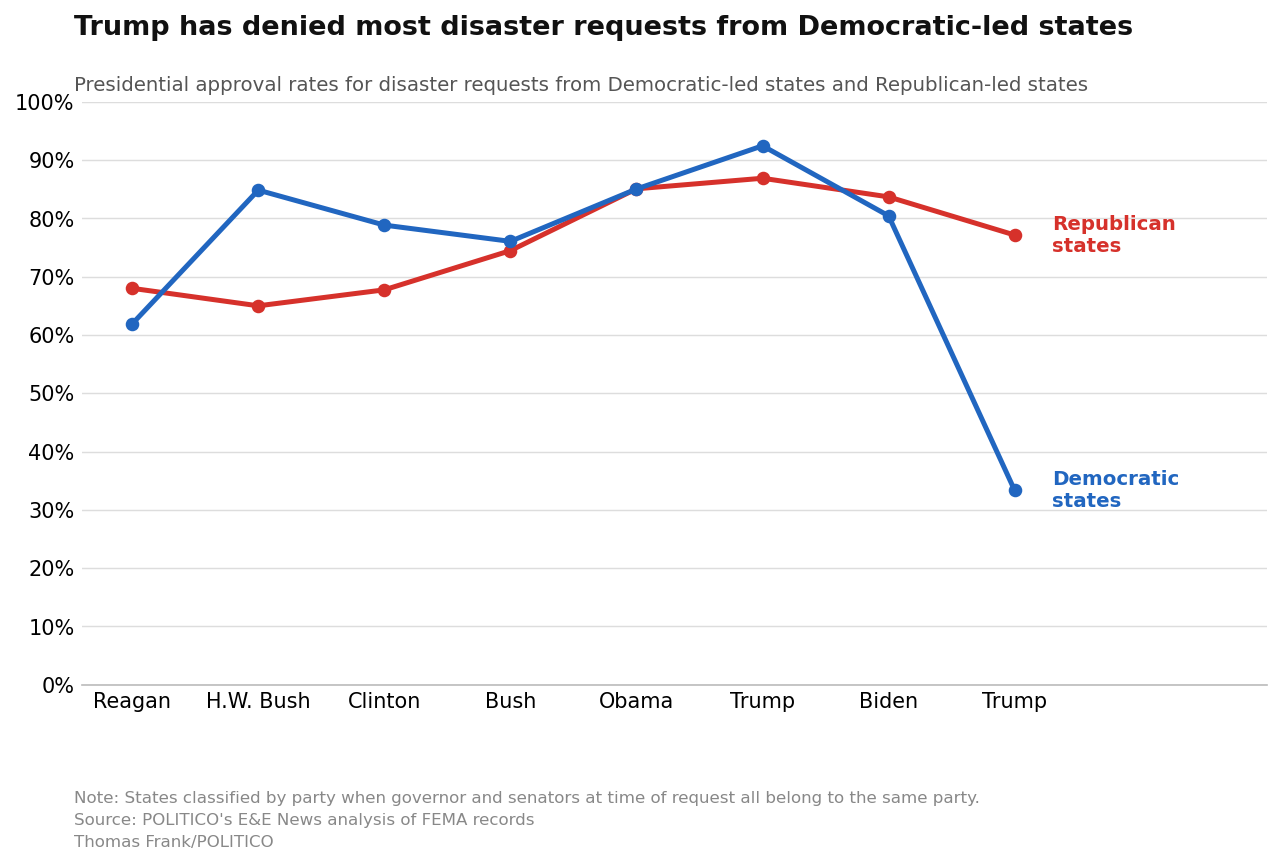
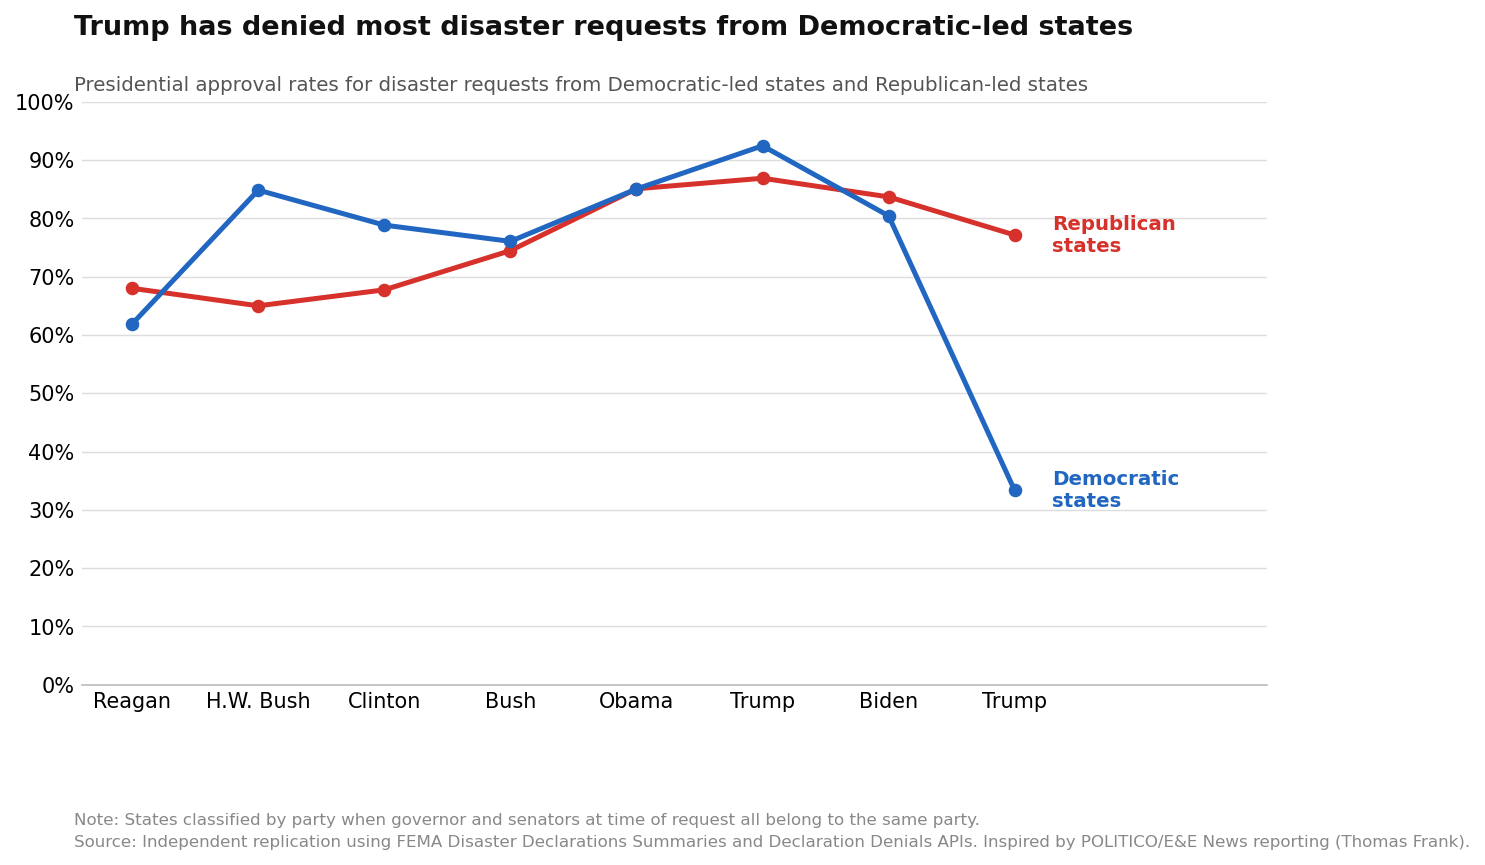
update

diff --git a/replicate_fema_analysis.py b/replicate_fema_analysis.py
@@ -796,7 +796,7 @@ def analyze(approved_records, denied_records):
 
     # Records with no matching presidential term
     np_total = no_pres_count["approved"] + no_pres_count["denied"]
-    print(f"\nOut-of-range dates (no matching presidential term): {np_total} records"
+    print(f"\nOut-of-range dates (pre-reagan): {np_total} records"
           f" ({no_pres_count['approved']} approved, {no_pres_count['denied']} denied)")
 
     return counts
@@ -901,8 +901,9 @@ def plot_chart(counts, output_path="fema_approval_rates.png"):
     footer = (
         "Note: States classified by party when governor and senators at time of "
         "request all belong to the same party.\n"
-        "Source: POLITICO's E&E News analysis of FEMA records\n"
-        "Thomas Frank/POLITICO"
+        "Source: Independent replication using FEMA Disaster Declarations Summaries "
+        "and Declaration Denials APIs. "
+        "Inspired by POLITICO/E&E News reporting (Thomas Frank)."
     )
     fig.text(0.065, 0.01, footer,
              fontsize=8, va="bottom", ha="left", color="#888888",

diff --git a/README.md b/README.md
@@ -1,102 +1,159 @@
 # FEMA DISASTER DECLARATION APPROVAL RATES BY PRESIDENT & STATE PARTY
 
-## Summary Table
+## Methodology
 
-| President   | Party | Approved | Denied | Total | Rate  |
-|------------|-------|----------|--------|-------|-------|
-| Reagan     | Dem   | 26       | 16     | 42    | 61.9% |
-| Reagan     | Rep   | 17       | 8      | 25    | 68.0% |
-| H.W. Bush  | Dem   | 28       | 5      | 33    | 84.8% |
-| H.W. Bush  | Rep   | 13       | 7      | 20    | 65.0% |
-| Clinton    | Dem   | 41       | 11     | 52    | 78.8% |
-| Clinton    | Rep   | 63       | 30     | 93    | 67.7% |
-| Bush       | Dem   | 54       | 17     | 71    | 76.1% |
-| Bush       | Rep   | 70       | 24     | 94    | 74.5% |
-| Obama      | Dem   | 108      | 19     | 127   | 85.0% |
-| Obama      | Rep   | 114      | 20     | 134   | 85.1% |
-| Trump      | Dem   | 49       | 4      | 53    | 92.5% |
-| Trump      | Rep   | 106      | 16     | 122   | 86.9% |
-| Biden      | Dem   | 74       | 18     | 92    | 80.4% |
-| Biden      | Rep   | 118      | 23     | 141   | 83.7% |
-| Trump      | Dem   | 4        | 8      | 12    | 33.3% |
-| Trump      | Rep   | 27       | 8      | 35    | 77.1% |
+This is an independent replication of the POLITICO/E&E News analysis published by Thomas Frank. The script fetches live data directly from FEMA's public APIs and applies the same core methodology described in the original reporting.
 
----
+### Data Sources
 
-## EXCLUDED RECORDS
+| Dataset | API Endpoint | Records Fetched |
+|---|---|---|
+| Approved declarations | `fema.gov/api/open/v2/DisasterDeclarationsSummaries` | ~46,220 |
+| Denied requests | `fema.gov/api/open/v1/DeclarationDenials` | ~1,288 |
 
-### Territories / States Not in Alignment Data  
-**Summary:** 122 approved, 16 denied, 138 total, 88.4% approval rate
+Both endpoints are paginated at 1,000 records per request; the script pages through all results exhaustively.
 
-| State | Approved | Denied | Total | Rate   |
-|-------|----------|--------|-------|--------|
-| AS    | 11       | 1      | 12    | 91.7%  |
-| DC    | 14       | 1      | 15    | 93.3%  |
-| FM    | 15       | 3      | 18    | 83.3%  |
-| GU    | 14       | 2      | 16    | 87.5%  |
-| MH    | 7        | 3      | 10    | 70.0%  |
-| MP    | 15       | 5      | 20    | 75.0%  |
-| PR    | 29       | 1      | 30    | 96.7%  |
-| PW    | 1        | 0      | 1     | 100.0% |
-| VI    | 16       | 0      | 16    | 100.0% |
+### Filtering to Natural Disasters Only
 
----
+Only Major Disaster Declarations (`declarationType = 'DR'`) are included from the approvals API. Both datasets are then filtered to exclude non-natural incident types. Because the two APIs use different terminology for the same concepts, separate exclusion lists are applied:
 
-### Mixed-Alignment States  
-*(Split government/senate — excluded by methodology)*  
-**Summary:** 1167 approved, 315 denied, 1482 total, 78.7% approval rate  
+**Approvals** — excluded `incidentType` values: `Biological`, `Terrorist`, `Chemical`, `Other`, `Toxic Substances`
 
-**Top States by Volume:**
+**Denials** — excluded `requestedIncidentTypes` values: `Human Cause`, `Other`, `Toxic Substances`
 
-| State | Approved | Denied | Total | Rate  |
-|-------|----------|--------|-------|-------|
-| FL    | 54       | 24     | 78    | 69.2% |
-| KY    | 51       | 13     | 64    | 79.7% |
-| MO    | 44       | 14     | 58    | 75.9% |
-| NC    | 44       | 12     | 56    | 78.6% |
-| CA    | 41       | 14     | 55    | 74.5% |
-| VT    | 49       | 3      | 52    | 94.2% |
-| LA    | 37       | 15     | 52    | 71.2% |
-| ME    | 44       | 5      | 49    | 89.8% |
-| TX    | 32       | 16     | 48    | 66.7% |
-| NY    | 33       | 14     | 47    | 70.2% |
+(`"Terrorist"` in the approvals API = `"Human Cause"` in the denials API; `"Chemical"` = `"Toxic Substances"`.)
 
----
+### Deduplication
 
-### Out-of-Range Dates
-- **Total Records:** 1267  
-- **Approved:** 618  
-- **Denied:** 649  
+- **Approvals:** The raw approvals dataset has one row per county, not per disaster. Records are deduplicated by `(disasterNumber, state)` so each state-level disaster declaration counts once.
+- **Denials:** Only records with `currentRequestStatus = "Turndown"` are counted (excluding withdrawn, pending, or other statuses). Exact duplicates by `declarationRequestNumber` are collapsed to one record.
 
----
+### State Party Classification
 
-## Additional Notes
+A state is classified as **Democratic-led** or **Republican-led** only when the governor and *both* U.S. senators all belong to the same party at the time of the request. Any state where the three offices are split across parties is classified as **Mixed** and excluded from the D/R comparison entirely.
 
-- **Chart Saved To:** `fema_approval_rates.png`
+Classifications are encoded in a hardcoded `STATE_PARTY_DATA` dictionary covering all 50 states for every year from 1981 through 2026 (~2,300 state-year entries). Sources: National Governors Association historical records and senate.gov membership data. The year used for classification is derived from the declaration date (approvals) or request date (denials).
+
+Independents are treated as non-partisan: a state with an Independent governor or senator cannot form a D or R trifecta and is classified as Mixed.
+
+### Presidential Term Boundaries
+
+Records are assigned to a presidential term based on the declaration/request date using the following inauguration-day boundaries:
+
+| President | Start | End |
+|---|---|---|
+| Reagan | Jan 20, 1981 | Jan 20, 1989 |
+| H.W. Bush | Jan 20, 1989 | Jan 20, 1993 |
+| Clinton | Jan 20, 1993 | Jan 20, 2001 |
+| G.W. Bush | Jan 20, 2001 | Jan 20, 2009 |
+| Obama | Jan 20, 2009 | Jan 20, 2017 |
+| Trump (1st) | Jan 20, 2017 | Jan 20, 2021 |
+| Biden | Jan 20, 2021 | Jan 20, 2025 |
+| Trump (2nd) | Jan 20, 2025 | Jan 20, 2029 |
+
+### Excluded Records
+
+Three categories of records are tracked but excluded from the approval rate calculations:
+
+1. **Territories and unclassified jurisdictions** (AS, DC, FM, GU, MH, MP, PR, PW, VI) — no governor/senator trifecta classification exists for these.
+2. **Mixed-alignment states** — intentionally excluded per the methodology; these states had split partisan control at the time of the request.
+3. **Out-of-range dates** — 1,267 records (618 approved, 649 denied) whose dates fall outside the Reagan–Trump 2 window. The denial database extends back to 1953, predating FEMA's creation in 1979 (records originated with predecessor agencies). These are pre-Reagan-era records and do not affect any presidential term's counts.
+
+### Approval Rate Formula
+
+For each combination of presidential term and state alignment:
+
+```
+approval rate = approved / (approved + denied)
+```
 
 ---
 
-## PARTY ALIGNMENT DATA COVERAGE
 
-- **States with Alignment Data:** 50  
-- **Year Range:** 1981–2026  
-- **Total State-Year Entries:** 2300  
+# Output
+```
+Attempting to fetch denied declarations from FEMA API...
+  Fetched 1000 records so far...
+Fetched 1288 denial records
 
----
+======================================================================
+FEMA DISASTER DECLARATION APPROVAL RATES BY PRESIDENT & STATE PARTY
+======================================================================
 
-## KEY STATE ALIGNMENTS (2025 — Trump 2nd Term)
+President     Party  Approved   Denied   Total     Rate
+-------------------------------------------------------
+Reagan          Dem        26       16      42    61.9%
+Reagan          Rep        17        8      25    68.0%
+H.W. Bush       Dem        28        5      33    84.8%
+H.W. Bush       Rep        13        7      20    65.0%
+Clinton         Dem        41       11      52    78.8%
+Clinton         Rep        63       30      93    67.7%
+Bush            Dem        54       17      71    76.1%
+Bush            Rep        70       24      94    74.5%
+Obama           Dem       108       19     127    85.0%
+Obama           Rep       114       20     134    85.1%
+Trump           Dem        49        4      53    92.5%
+Trump           Rep       106       16     122    86.9%
+Biden           Dem        74       18      92    80.4%
+Biden           Rep       118       23     141    83.7%
+Trump           Dem         4        8      12    33.3%
+Trump           Rep        27        8      35    77.1%
 
-| State       | Abbreviation | Alignment |
-|-------------|-------------|-----------|
-| Washington  | WA          | D         |
-| Illinois    | IL          | D         |
-| Colorado    | CO          | D         |
-| Maryland    | MD          | D         |
-| California  | CA          | D         |
-| Michigan    | MI          | D         |
-| Oklahoma    | OK          | R         |
-| Tennessee   | TN          | R         |
-| Alaska      | AK          | R         |
-| Nebraska    | NE          | R         |
-| Arkansas    | AR          | R         |
-| Kentucky    | KY          | Mixed     |
+======================================================================
+EXCLUDED RECORDS
+======================================================================
+
+Territories / states not in alignment data  [122 approved, 16 denied, 138 total, 88.4% approval rate]
+  State     Approved   Denied   Total     Rate
+  --------------------------------------------
+  AS              11        1      12    91.7%
+  DC              14        1      15    93.3%
+  FM              15        3      18    83.3%
+  GU              14        2      16    87.5%
+  MH               7        3      10    70.0%
+  MP              15        5      20    75.0%
+  PR              29        1      30    96.7%
+  PW               1        0       1   100.0%
+  VI              16        0      16   100.0%
+
+Mixed-alignment states (split gov/senate — excluded by methodology)  [1167 approved, 315 denied, 1482 total, 78.7% approval rate]
+  (top states by volume)
+  State     Approved   Denied   Total     Rate
+  --------------------------------------------
+  FL              54       24      78    69.2%
+  KY              51       13      64    79.7%
+  MO              44       14      58    75.9%
+  NC              44       12      56    78.6%
+  CA              41       14      55    74.5%
+  VT              49        3      52    94.2%
+  LA              37       15      52    71.2%
+  ME              44        5      49    89.8%
+  TX              32       16      48    66.7%
+  NY              33       14      47    70.2%
+
+Out-of-range dates (pre-reagan): 1267 records (618 approved, 649 denied)
+Chart saved to: fema_approval_rates.png
+
+
+PARTY ALIGNMENT DATA COVERAGE:
+----------------------------------------
+States with alignment data: 50
+Year range: 1981-2026
+Total state-year entries: 2300
+
+
+KEY STATE ALIGNMENTS (2025 - Trump 2nd term):
+--------------------------------------------------
+  Washington      (WA): D
+  Illinois        (IL): D
+  Colorado        (CO): D
+  Maryland        (MD): D
+  California      (CA): D
+  Michigan        (MI): D
+  Oklahoma        (OK): R
+  Tennessee       (TN): R
+  Alaska          (AK): R
+  Nebraska        (NE): R
+  Arkansas        (AR): R
+  Kentucky        (KY): Mixed
+  ```
